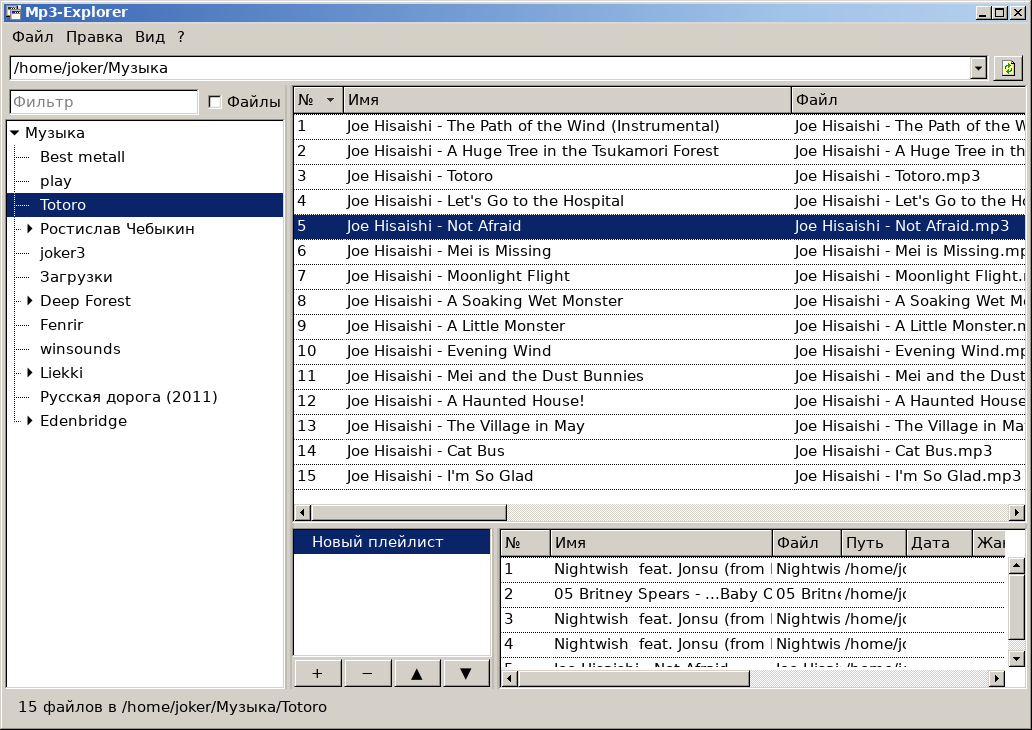
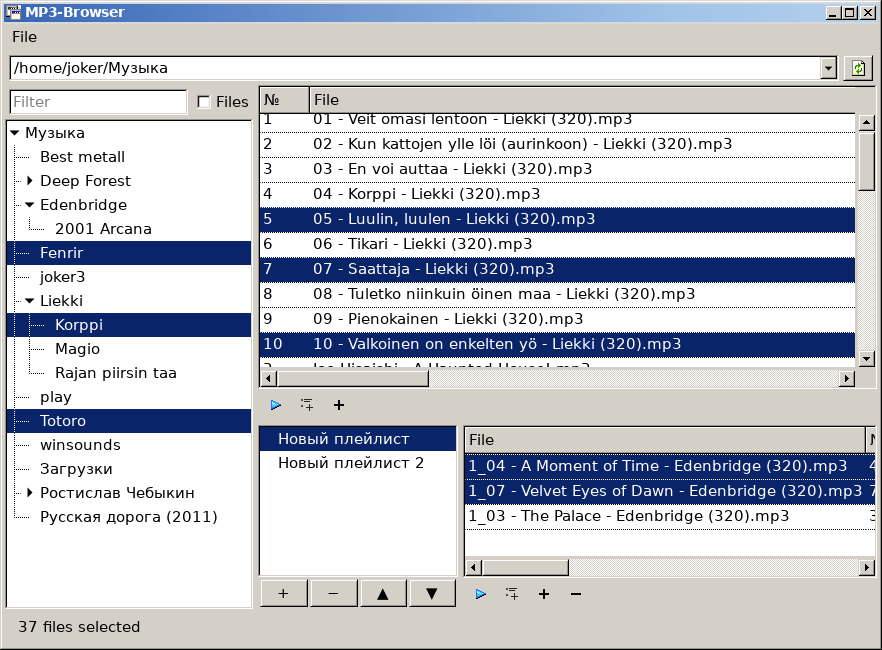
update readme

diff --git a/README.md b/README.md
@@ -3,6 +3,8 @@ A replica of a 2000s program MP3-Explorer for Windows.
 
 Written on GJS. In development...
 
+Developed in Russian, some strings can be untranslated.
+
 Screenshot:
 
 ![main winow](screenshot.png)
